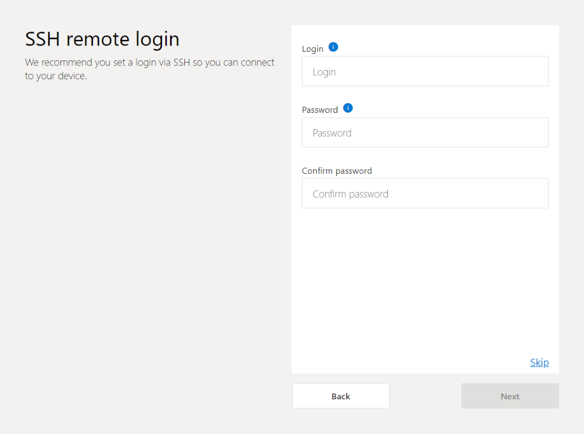
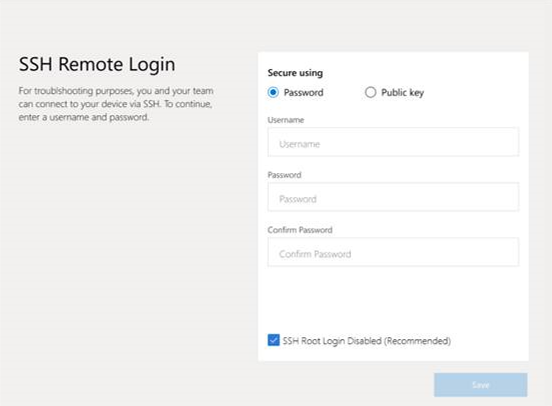
updated oobe ssh screen and guidance

diff --git a/user-guides/getting_started/oobe.md b/user-guides/getting_started/oobe.md
@@ -39,65 +39,65 @@ http://<your_devices_ip> | for builds released on or after 09/08/2020
 
 1. Click **Next** on the OOBE **Welcome** screen.  
 
-    ![welcome_screen](https://github.com/microsoft/Project-Santa-Cruz-Private-Preview/blob/main/user-guides/getting_started/getting_started_images/oobe_welcome_screen.png)
+    ![welcome_screen](./getting_started_images/oobe_welcome_screen.png)
 
 1. On the **Network connection** page, click **Connect to a new WiFi network** to connect your devkit to a Wi-Fi network.
 
-    ![network_connection](https://github.com/microsoft/Project-Santa-Cruz-Private-Preview/blob/main/user-guides/getting_started/getting_started_images/oobe_network_connection.png)
+    ![network_connection](./getting_started_images/oobe_network_connection.png)
 
 1. Select your Wi-Fi network from the available connections.
 
     >[!NOTE] The Wi-Fi network you connect to must currently have internet connectivity so we can communicate with Azure. EAP[PEAP/MSCHAP], captive portals, and Enterprise EAP-TLS connectivity is currently not supported.
 
-    ![wifi](https://github.com/microsoft/Project-Santa-Cruz-Private-Preview/blob/main/user-guides/getting_started/getting_started_images/oobe_wifi.png)
+    ![wifi](./getting_started_images/oobe_wifi.png)
 
 1. Once your devkit has successfully connected to your network of choice, write down the IP address you are shown. You can use this IP address for OOBE or SSH sessions. Then, click **Next**.
 
-    ![wifi_success](https://github.com/microsoft/Project-Santa-Cruz-Private-Preview/blob/main/user-guides/getting_started/getting_started_images/oobe_wifi_success.png)
+    ![wifi_success](./getting_started_images/oobe_wifi_success.png)
 
 1. Stop at this point and disconnect your PC from the SoftAP/Devkit and reconnect your PC back to your home/office AP. Once you are back on your home/office network, use the IP address you noted from above to restart OOBE and skip the Wi-Fi connection screen. To restart OOBE, open a browser and go to http://<your_devices_ip>:4242 or http://<your_devices_ip>, depending on your build. **<your_devices_ip>** will be the IP address noted in the previous step.
 
 1. Read through the License Agreement, select **I have read and agree to the License Agreement**, and click **Next**.
 
-    ![license_agreement](https://github.com/microsoft/Project-Santa-Cruz-Private-Preview/blob/main/user-guides/getting_started/getting_started_images/oobe_license_agreement.png)
+    ![license_agreement](./getting_started_images/oobe_license_agreement.png)
 
-1. If you would like to set up SSH for remote access to your devkit, enter your SSH login and password and click **Next**.  
+1. If you would like to set up SSH for remote access to your devkit, enter your SSH login and password. To disable the root SSH login (username = root, password = p@ssw0rd), check the box next to **SSH Root Login Disabled (Recommended)**. To prevent brute force security attacks, we recommend keeping SSH root login disabled. If you are an advanced user and choose to enable root login, please enable appropriate security measures for your deployment environment. Finally, click **Save**.  
 
-    ![ssh](https://github.com/microsoft/Project-Santa-Cruz-Private-Preview/blob/main/user-guides/getting_started/getting_started_images/oobe_ssh.png)
+    ![ssh](./getting_started_images/oobe_ssh.png)
 
 1. On the next screen, click **Connect with a new device** to begin the process of linking your devkit to Azure.
 
-    ![connect_device](https://github.com/microsoft/Project-Santa-Cruz-Private-Preview/blob/main/user-guides/getting_started/getting_started_images/oobe_connect_device.png)
+    ![connect_device](./getting_started_images/oobe_connect_device.png)
 
 1. Click **Copy** to copy your device code (this may take a few seconds to generate). Once you have copied your device code, click **Login to Azure**, which opens a new browser tab.
 
-    ![device_code](https://github.com/microsoft/Project-Santa-Cruz-Private-Preview/blob/main/user-guides/getting_started/getting_started_images/oobe_device_code.png)
+    ![device_code](./getting_started_images/oobe_device_code.png)
 
     1. On the new browser tab, paste the device code you copied in the previous step into the window and click **Next**.
 
-        ![enter_code](https://github.com/microsoft/Project-Santa-Cruz-Private-Preview/blob/main/user-guides/getting_started/getting_started_images/oobe_enter_code.png)
+        ![enter_code](./getting_started_images/oobe_enter_code.png)
 
     1. Sign into your Azure account (the same account used during the onboarding process) and click **Next**. Navigate back to the OOBE window, which will show “Successfully Linked” once account sign-in is successful.
 
-        ![code_sign_in](https://github.com/microsoft/Project-Santa-Cruz-Private-Preview/blob/main/user-guides/getting_started/getting_started_images/oobe_code_sign_in.png)
+        ![code_sign_in](./getting_started_images/oobe_code_sign_in.png)
 
 1. Select the IoT Hub you created during the onboarding process to assign it to your devkit. The asterisk "*" indicates IoT Hubs with DPS enabled. If you are not sure which IoT Hub name you created during the onboarding process, you can review it by accessing https://projectsantacruz.microsoft.com/.
 
-    ![iot_hub](https://github.com/microsoft/Project-Santa-Cruz-Private-Preview/blob/main/user-guides/getting_started/getting_started_images/oobe_iot_hub.png)
+    ![iot_hub](./getting_started_images/oobe_iot_hub.png)
 
 1. Enter a device name for your devkit, check the TPM enrollment box, and click **Next**.  
 
-    ![device_name](https://github.com/microsoft/Project-Santa-Cruz-Private-Preview/blob/main/user-guides/getting_started/getting_started_images/oobe_device_name.png)
+    ![device_name](./getting_started_images/oobe_device_name.png)
 
 1. Congratulations! Your devkit has been successfully linked to your Azure account and Project Santa Cruz IoT Hub. You may now access your device within the [Azure Portal](https://ms.portal.azure.com/?feature.canmodifystamps=true&Microsoft_Azure_Iothub=aduprod#home).
 
   >[!NOTE] If your **Preview Video Output** link is using 10.1.1.1:3000, we recommend you disconnect your PC from the SoftAP as outlined in step 5 and use http://<your_noted_IP_address>:3000 to get the best experience.
   
-   ![oobe_complete](https://github.com/microsoft/Project-Santa-Cruz-Private-Preview/blob/main/user-guides/getting_started/getting_started_images/oobe_complete.png)
+   ![oobe_complete](./getting_started_images/oobe_complete.png)
 
 ## Notes
 
-To protect your security, after 30 minutes of inactivity we stop the OOBE process (and we remove the port 80 allow rule).  You will need to restart OOBE to restart the OOBE process. 
+To protect your security, after 30 minutes of inactivity we stop the OOBE process (and we remove the port 80 allow rule).  You will need to restart OOBE to restart the OOBE process.
 
 ## Provide feedback
 
